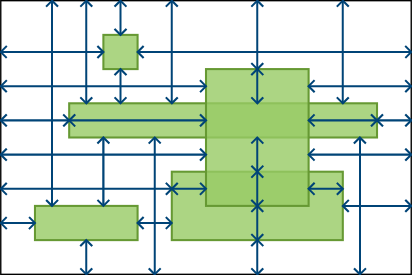
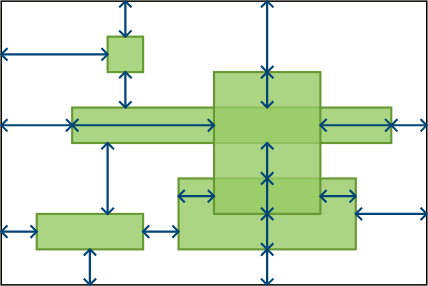
reduced number of lines by only selecting local minimum distances

diff --git a/src/js/gaps.js b/src/js/gaps.js
@@ -136,11 +136,22 @@ var GAPS = {
 			var e = events[ i ];
 			var overlaps = sweepstate.query( e );
 			for ( var j = 0; j < overlaps.length; j++ ) {
-				var o = overlaps[ j ];
-				if ( o.id !== e.id && o.offset < e.order ) {
-					var p1 = Math.max( o.start, e.start );
-					var p2 = Math.min( o.end, e.end );
-					ulines.push( { start: o.offset, end: e.order, pos: (p1+p2)/2 } );
+				var isLocalMaximum = function ( x, a ) {
+					if ( (x-1) >= 0 && a[ x-1 ].offset > a[ x ].offset ) {
+						return false;
+					} else if ( (x+1) < a.length && a[ x+1 ].offset > a[ x ].offset ) {
+						return false;
+					} else {
+						return true;
+					}
+				};
+				if ( isLocalMaximum( j, overlaps ) ) {
+					var o = overlaps[ j ];
+					if ( o.id !== e.id && o.offset < e.order ) {
+						var p1 = Math.max( o.start, e.start );
+						var p2 = Math.min( o.end, e.end );
+						ulines.push( { start: o.offset, end: e.order, pos: (p1+p2)/2 } );
+					}
 				}
 			}
 			sweepstate.insert( e );
